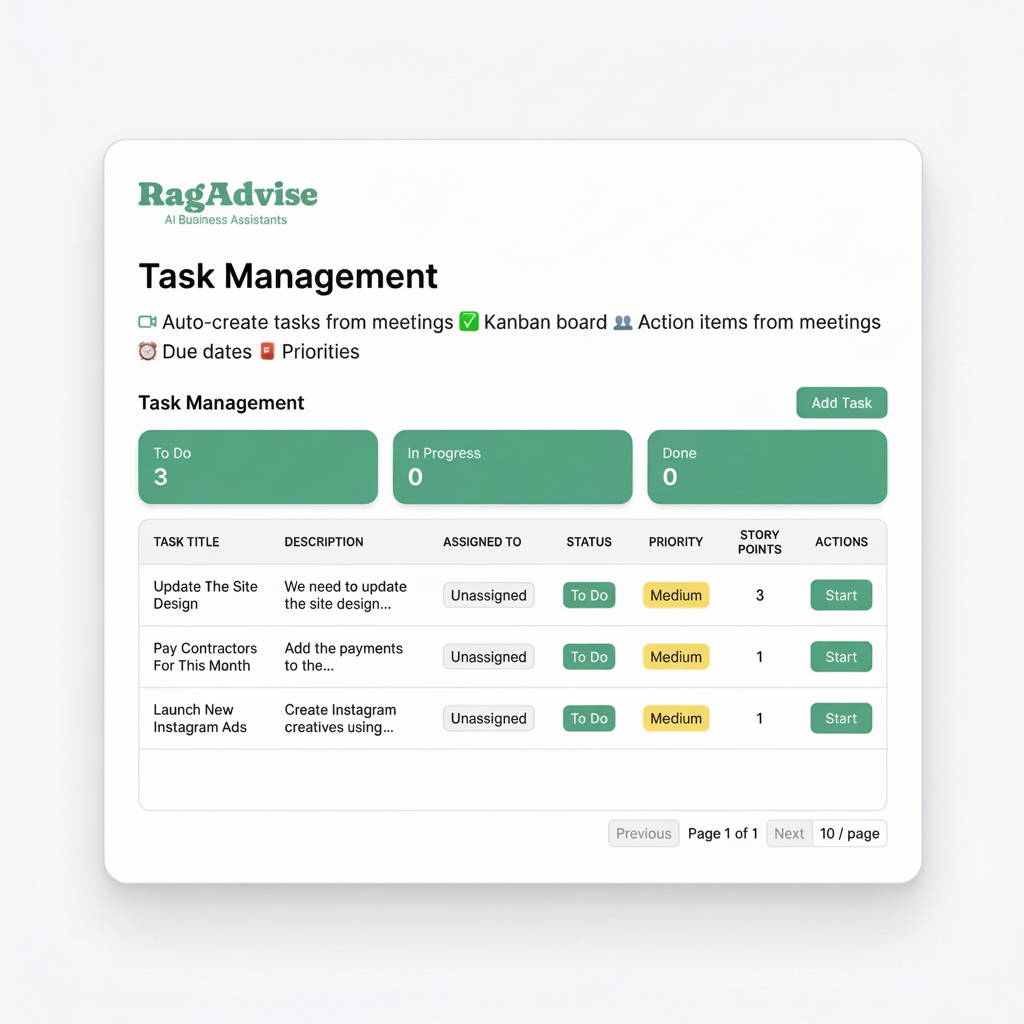
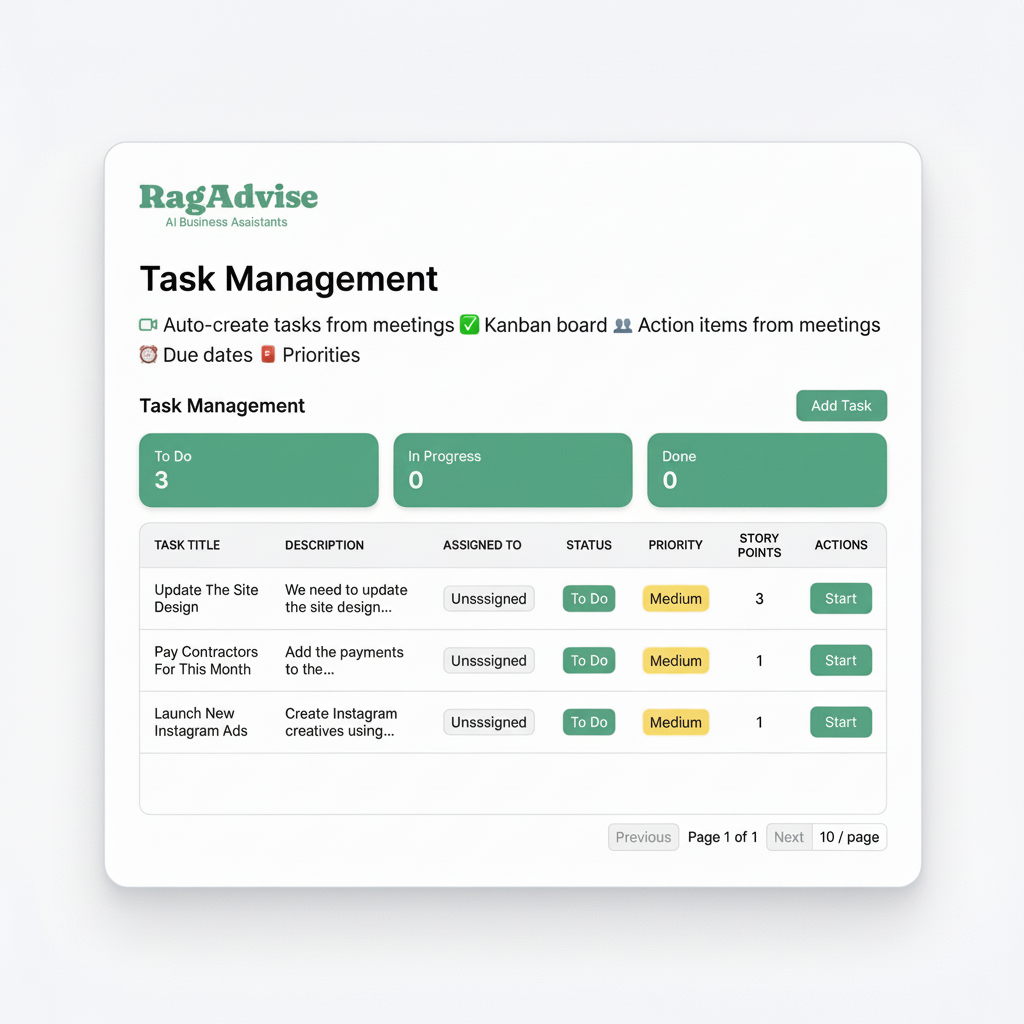
Changes

diff --git a/src/pages/assistants/ConversationAssistant.tsx b/src/pages/assistants/ConversationAssistant.tsx
@@ -226,11 +226,12 @@ const ConversationAssistant = () => {
               </div>
 
               {/* Right - Product Preview */}
-              <div className="rounded-2xl overflow-hidden shadow-lg border border-primary/20">
+              <div className="rounded-2xl overflow-hidden shadow-lg border border-primary/20 bg-background">
                 <img
                   src={taskManagementPreview}
                   alt="RagAdvise Task Management dashboard showing kanban board with tasks, priorities, and status tracking"
-                  className="w-full h-auto block"
+                  className="w-full h-auto block scale-110"
+                  style={{ objectFit: 'cover', objectPosition: 'center' }}
                 />
               </div>
             </div>
